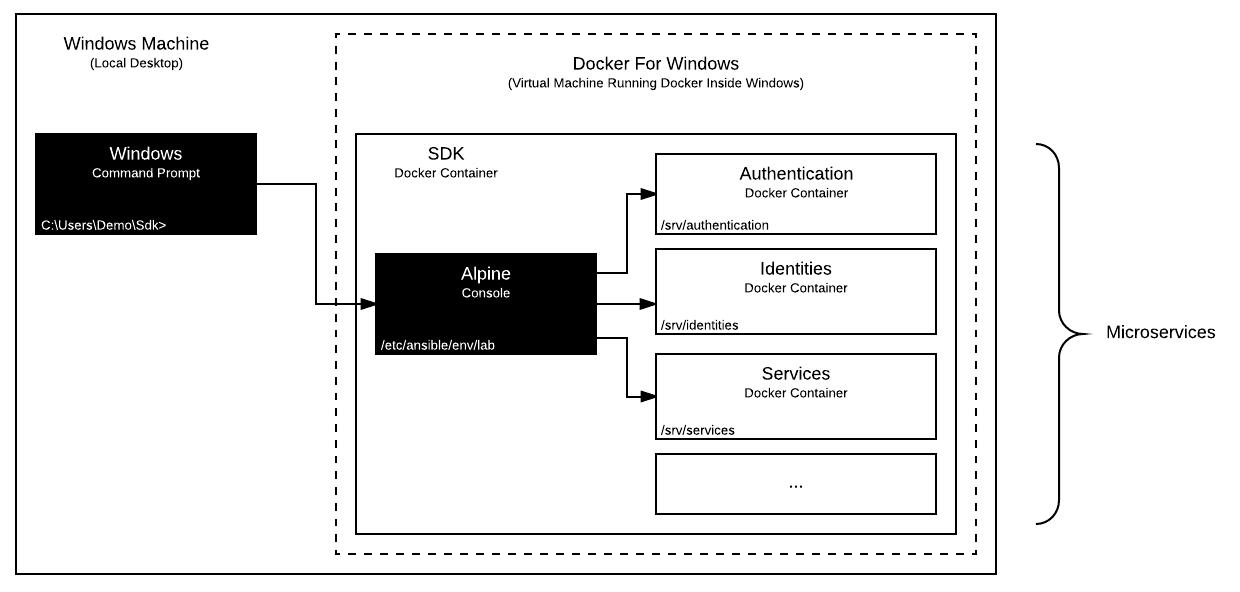
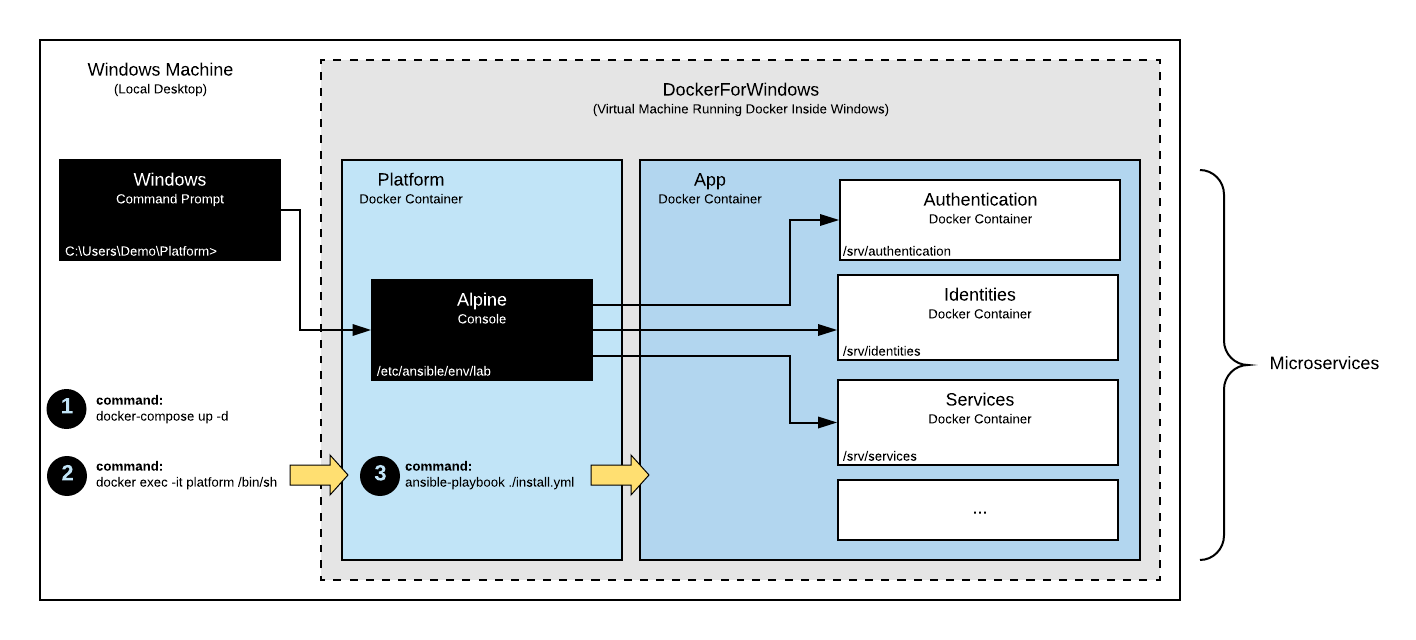
Update documentation

diff --git a/platform/documentation/environments/lab/index.md b/platform/documentation/environments/lab/index.md
@@ -18,9 +18,8 @@ It represents the experimental branch of the DigitalState Platform and enables t
 2. [Download the platform repository.](#2-download-the-platform-repository)
 3. [Boot the platform container.](#3-boot-the-platform-container)
 4. [Enter the platform container console.](#4-enter-the-platform-container-console)
-5. [Configure the Ansible environment.](#5-configure-the-ansible-environment)
-6. [Add DNS entries to your host file.](#6-add-dns-entries-to-your-host-file)
-7. [Run the install command with Ansible.](#7-run-the-install-command-with-ansible)
+5. [Add DNS entries to your host file.](#5-add-dns-entries-to-your-host-file)
+6. [Run the install command with Ansible.](#6-run-the-install-command-with-ansible)
 
 ## Deployment
 
@@ -30,9 +29,11 @@ To begin, you will need to install Git (for [Windows](https://git-scm.com/book/e
 
 > Note: Docker Toolbox for Windows and Mac is not compatible.
 
+> Note: If you are on Windows, Windows Pro with HyperV is required.
+
 ### 2. Download the platform repository
 
-Open a command prompt and download the repository:
+Open a console and download the repository:
 
 ```
 > cd C:\Users\Demo
@@ -50,7 +51,7 @@ Run the following command to boot the platform container:
 
 > Note: Docker may prompt you to share your drive (for Docker volumes).
 
-Confirm the container has been booted successfully:
+Run the following command to confirm the container has been booted successfully:
 
 ```
 > docker ps
@@ -59,9 +60,12 @@ Confirm the container has been booted successfully:
 You should see the following output:
 
 ```
-CONTAINER ID     IMAGE                 COMMAND       CREATED           STATUS           PORTS     NAMES
-4ceab8511b85     platform_platform     "/bin/sh"     3 seconds ago     Up 2 seconds               platform
+CONTAINER ID   IMAGE               COMMAND               CREATED         STATUS         PORTS    NAMES
+4ceab8511b85   platform_platform   "/bin/sh"             3 seconds ago   Up 2 seconds            platform
+e9aa40751206   platform_app        "/usr/sbin/sshd -D"   3 seconds ago   Up 2 seconds   22/tcp   app
 ```
+
+> Note: There is also an app container being created. This container is used to hold the deployed application instance when running the lab environment.
 
 ### 4. Enter the platform container console
 
@@ -77,37 +81,9 @@ Point to the lab environment directory:
 $ cd /etc/ansible/env/lab
 ```
 
-At this point, you have the platform container running on your local machine as a bare Linux Alpine system with Ansible pre-installed and ready to accept commands.
+At this point, you have the platform container running on your local machine as a bare Linux Alpine system with Ansible pre-configured and ready to run playbooks.
 
-### 5. Configure the Ansible environment
-
-Configure the Ansible lab environment:
-
-> The lab environment uses the Ansible inventory file found [here](/platform/ansible/env/lab/inventory.yml) for its configurations.
-
-The [encryption.secret](https://github.com/DigitalState/Platform/blob/develop/platform/ansible/env/lab/vars/main.yml#L6) config needs to be set to a random, unique and secret 32 characters string.
-
-The [jwt.pass_phrase](https://github.com/DigitalState/Platform/blob/develop/platform/ansible/env/lab/vars/main.yml#L8) config needs to be set to the jwt key pass phrase defined at step #5.
-
-The [directory](https://github.com/DigitalState/Platform/blob/develop/platform/ansible/env/lab/vars/main.yml#L3) config needs to be set to the absolute path of the platform `app` directory. The value will vary depending on your local machine's operating system:
-
-**Windows**
-
-Under Docker for Windows with Hyper-V, the value should be equal to the Hyper-V mounted directory path. For example, if you have put the platform repository at `C:\Users\Demo\Platform`, then the directory config value should be `/c/Users/Demo/Platform/app`.
-
-**Mac**
-
-Under Docker for Mac, the value should simply be equal to the normal directory path, as long as you have shared the local `/Users` directory with the virtual machine. For example, if you have put the platform repository at `/Users/demo/platform`, then the directory config value should be `/Users/demo/platform/app`.
-
-**Linux**
-
-Under operating systems that supports Docker natively, the value should simply be equal to the normal directory path. For example, if you have put the platform repository at `/home/demo/platform`, then the directory config value should be `/home/demo/platform/app`.
-
-### 6. Add DNS entries to your host file
-
-Add DNS entries to your host file:
-
-> The lab environment uses a local dns under *.lab.ds.
+### 5. Add DNS entries to your host file
 
 Locate the host file on your local machine.
 
@@ -128,45 +104,46 @@ Add the following entries:
 ```
 127.0.0.1 admin.lab.ds
 127.0.0.1 portal.lab.ds
-127.0.0.1 adminer.assets.lab.ds
 127.0.0.1 api.assets.lab.ds
-127.0.0.1 rebrow.assets.lab.ds
-127.0.0.1 adminer.authentication.lab.ds
+127.0.0.1 ui.database.assets.lab.ds
+127.0.0.1 ui.cache.assets.lab.ds
 127.0.0.1 api.authentication.lab.ds
-127.0.0.1 rebrow.authentication.lab.ds
+127.0.0.1 ui.database.authentication.lab.ds
+127.0.0.1 ui.cache.authentication.lab.ds
 127.0.0.1 api.camunda.lab.ds
-127.0.0.1 adminer.cases.lab.ds
 127.0.0.1 api.cases.lab.ds
-127.0.0.1 rebrow.cases.lab.ds
-127.0.0.1 adminer.cms.lab.ds
+127.0.0.1 ui.database.cases.lab.ds
+127.0.0.1 ui.cache.cases.lab.ds
 127.0.0.1 api.cms.lab.ds
-127.0.0.1 rebrow.cms.lab.ds
+127.0.0.1 ui.database.cms.lab.ds
+127.0.0.1 ui.cache.cms.lab.ds
 127.0.0.1 api.discovery.lab.ds
-127.0.0.1 adminer.formio.lab.ds
+127.0.0.1 ui.discovery.lab.ds
 127.0.0.1 api.formio.lab.ds
-127.0.0.1 adminer.forms.lab.ds
+127.0.0.1 ui.database.formio.lab.ds
 127.0.0.1 api.forms.lab.ds
-127.0.0.1 rebrow.forms.lab.ds
-127.0.0.1 adminer.identities.lab.ds
+127.0.0.1 ui.database.forms.lab.ds
+127.0.0.1 ui.cache.forms.lab.ds
 127.0.0.1 api.identities.lab.ds
-127.0.0.1 rebrow.identities.lab.ds
-127.0.0.1 adminer.services.lab.ds
+127.0.0.1 ui.database.identities.lab.ds
+127.0.0.1 ui.cache.identities.lab.ds
 127.0.0.1 api.services.lab.ds
-127.0.0.1 rebrow.services.lab.ds
-127.0.0.1 adminer.records.lab.ds
+127.0.0.1 ui.database.services.lab.ds
+127.0.0.1 ui.cache.services.lab.ds
 127.0.0.1 api.records.lab.ds
-127.0.0.1 rebrow.records.lab.ds
+127.0.0.1 ui.database.records.lab.ds
+127.0.0.1 ui.cache.records.lab.ds
 ```
 
-### 7. Run the install command with Ansible
+### 6. Run the install playbook with Ansible
 
-Install the dockerized application locally with the Ansible install command:
+Install the dockerized application locally with the following Ansible install command:
 
 ```
 ansible-playbook ./install.yml
 ```
 
-This command downloads repositories, configures settings, builds Docker images, boots up containers, migrates databases and loads data fixtures for each microservice.
+This command downloads repositories, sets configurations, boots up Docker containerscontainers, migrates databases and loads data fixtures for each microservice.
 
 > Note: Depending on the power of your machine and internet speed, this command may take a while to finish.
 
